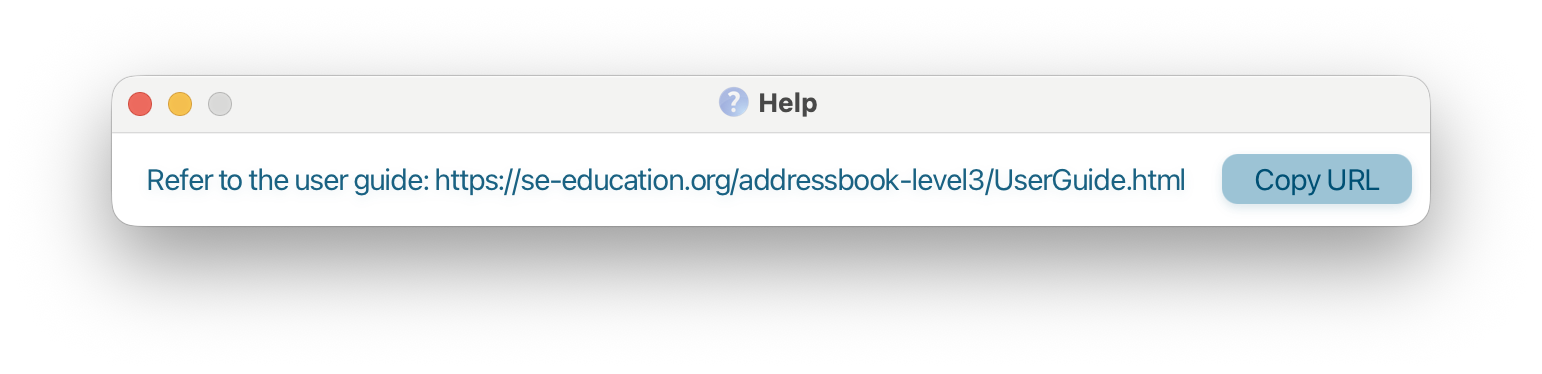
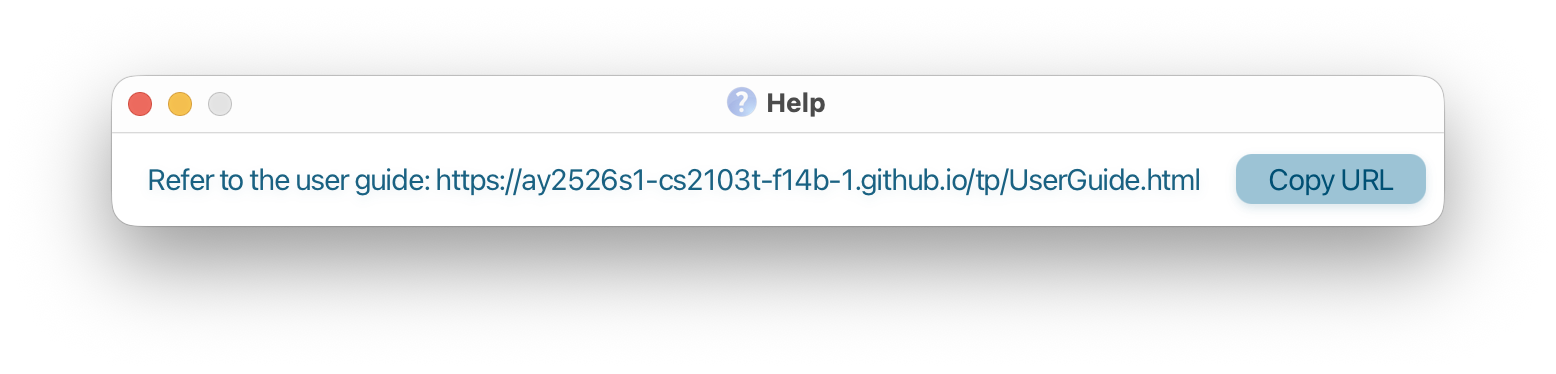
Update Help/View window

diff --git a/src/main/java/seedu/address/ui/HelpWindow.java b/src/main/java/seedu/address/ui/HelpWindow.java
@@ -15,7 +15,7 @@ import seedu.address.commons.core.LogsCenter;
  */
 public class HelpWindow extends UiPart<Stage> {
 
-    public static final String USERGUIDE_URL = "https://se-education.org/addressbook-level3/UserGuide.html";
+    public static final String USERGUIDE_URL = "https://ay2526s1-cs2103t-f14b-1.github.io/tp/UserGuide.html";
     public static final String HELP_MESSAGE = "Refer to the user guide: " + USERGUIDE_URL;
 
     private static final Logger logger = LogsCenter.getLogger(HelpWindow.class);
